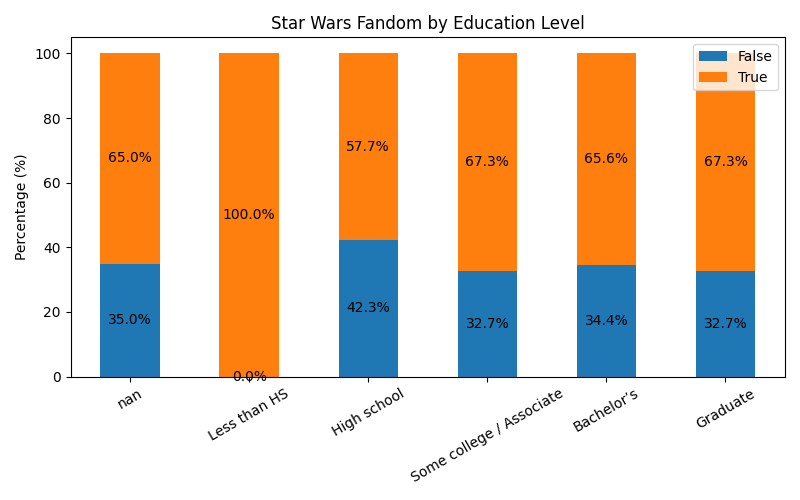
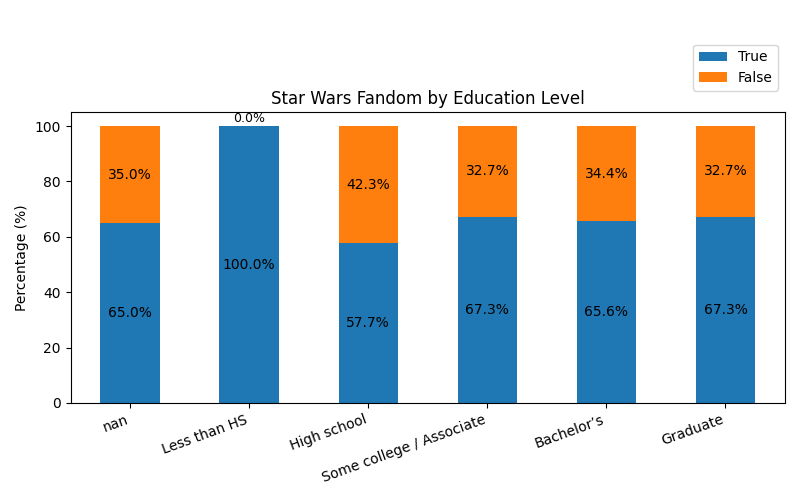
Finished phase 2.2 nominal variables x binary variables

diff --git a/analysis/eda_nominal_binary.py b/analysis/eda_nominal_binary.py
@@ -1,4 +1,5 @@
 from __future__ import annotations
+from pathlib import Path
 from src.paths import FIGURES_DIR
 import pandas as pd
 from src.io_utils import load_clean_star_wars
@@ -21,7 +22,7 @@ def nominal_binary_crosstab(
         dropna=False,
         normalize=False
     )
-    expected_cols = [False, True, pd.NA]
+    expected_cols = [True, False, pd.NA]
     counts = counts.reindex(
         columns=[c for c in expected_cols if c in counts.columns],
         fill_value=0,
@@ -49,13 +50,44 @@ def plot_nominal_binary(
     ax.set_ylabel("Percentage (%)")
     ax.set_xlabel("")
     ax.set_title(title)
-    ax.legend(title="")
-    ax.set_xticklabels(ax.get_xticklabels(), rotation=30, ha="center")
 
+    ax.legend(
+        title="",
+        loc="lower right",
+        bbox_to_anchor=(1, 1.05),
+        ncol=1,  # len(percentages.columns),
+        # frameon=False,
+    )
+    ax.set_xticklabels(ax.get_xticklabels(), rotation=20, ha="right")
+
+    # Loop over containers (stacked segments)
     for container in ax.containers:
-        ax.bar_label(container, fmt="%.1f%%", label_type="center")
+        # Label only non-zero bars
+        labels: list[str] = [
+            f"{bar.get_height():.1f}%" if bar.get_height() > 0 else ""
+            for bar in container
+        ]
+        ax.bar_label(container, labels=labels, label_type="center")
 
-    plt.tight_layout()
+    # Handle zero-height bars separately
+    for i, col in enumerate(percentages.columns):
+        values = percentages[col].values
+
+        for j, value in enumerate(values):
+            if value == 0:
+                # Total height of the stack at this x-position
+                stack_top: float = percentages.iloc[j, :].sum()
+
+                ax.text(
+                    j,
+                    stack_top + 0.5,
+                    "0.0%",
+                    ha="center",
+                    va="bottom",
+                    fontsize=9,
+                )
+
+    plt.tight_layout(rect=(0, 0, 1, 0.95))
 
     if save_path is not None:
         save_path.parent.mkdir(parents=True, exist_ok=True)
@@ -66,96 +98,35 @@ def plot_nominal_binary(
 def main() -> None:
     df = load_clean_star_wars()
 
-    counts, pct = nominal_binary_crosstab(
-        df,
-        nominal_col="gender",
-        binary_col="fan_star_wars",
-    )
+    nominals = [
+        ["gender", "Star Wars Fandom by Gender", FIGURES_DIR / "gender_fan_star_wars.png"],
+        ["education_level", "Star Wars Fandom by Education Level", FIGURES_DIR / "education_fan_star_wars.png"],
+        ["household_income", "Star Wars Fandom by Household Income Level", FIGURES_DIR / "household_income_fan_star_wars.png"],
+        ["census_region", "Star Wars Fandom by Census Region", FIGURES_DIR / "census_region_fan_star_wars.png"],
+        ["age_group", "Star Wars Fandom by Age Group", FIGURES_DIR / "age_group_fan_star_wars.png"]
+    ]
 
-    plot_nominal_binary(
-        pct,
-        title="Star Wars Fandom by Gender",
-        save_path = FIGURES_DIR /
-                    "gender_fan_star_wars.png",
-    )
+    for nom_col, nom_title, save_path in nominals:
 
-    print("\nCounts:")
-    print(counts)
+        counts, pct = nominal_binary_crosstab(
+            df,
+            nominal_col=nom_col,
+            binary_col="fan_star_wars",
+        )
 
-    print("\nRow percentages (%):")
-    print(pct)
+        plot_nominal_binary(
+            pct,
+            title=nom_title,
+            save_path=save_path,
+        )
 
-    counts, pct = nominal_binary_crosstab(
-        df,
-        nominal_col="education_level",
-        binary_col="fan_star_wars",
-    )
+        print("\nCounts:")
+        print(counts)
 
-    plot_nominal_binary(
-        pct,
-        title="Star Wars Fandom by Education Level",
-        save_path=FIGURES_DIR / "education_fan_star_wars.png",
-    )
+        print("\nRow percentages (%):")
+        print(pct)
 
-    print("\nCounts:")
-    print(counts)
 
-    print("\nRow percentages (%):")
-    print(pct)
-
-    counts, pct = nominal_binary_crosstab(
-        df,
-        nominal_col="household_income",
-        binary_col="fan_star_wars",
-    )
-
-    plot_nominal_binary(
-        pct,
-        title="Star Wars Fandom by Household Income Level",
-        save_path=FIGURES_DIR / "household_income_fan_star_wars.png",
-    )
-
-    print("\nCounts:")
-    print(counts)
-
-    print("\nRow percentages (%):")
-    print(pct)
-
-    counts, pct = nominal_binary_crosstab(
-        df,
-        nominal_col="census_region",
-        binary_col="fan_star_wars",
-    )
-
-    plot_nominal_binary(
-        pct,
-        title="Star Wars Fandom by Census Region",
-        save_path=FIGURES_DIR / "census_region_fan_star_wars.png",
-    )
-
-    print("\nCounts:")
-    print(counts)
-
-    print("\nRow percentages (%):")
-    print(pct)
-
-    counts, pct = nominal_binary_crosstab(
-        df,
-        nominal_col="age_group",
-        binary_col="fan_star_wars",
-    )
-
-    plot_nominal_binary(
-        pct,
-        title="Star Wars Fandom by Age Group",
-        save_path=FIGURES_DIR / "age_group_fan_star_wars.png",
-    )
-
-    print("\nCounts:")
-    print(counts)
-
-    print("\nRow percentages (%):")
-    print(pct)
 
 
 if __name__ == "__main__":

diff --git a/analysis/eda_nominal..py b/analysis/eda_nominal..py
@@ -8,6 +8,7 @@ Assumptions:
 """
 
 from __future__ import annotations
+from pathlib import Path
 from src.paths import FIGURES_DIR
 from src.io_utils import load_clean_star_wars
 import matplotlib.pyplot as plt

diff --git a/analysis/eda_binary_binary.py b/analysis/eda_binary_binary.py
@@ -1,4 +1,5 @@
 from __future__ import annotations
+from pathlib import Path
 from src.paths import FIGURES_DIR
 import matplotlib.pyplot as plt
 import pandas as pd

diff --git a/analysis/eda_boolean.py b/analysis/eda_boolean.py
@@ -1,4 +1,5 @@
 from __future__ import annotations
+from pathlib import Path
 from src.paths import FIGURES_DIR
 import matplotlib.pyplot as plt
 import pandas as pd

diff --git a/analysis/episode_rankings.py b/analysis/episode_rankings.py
@@ -1,4 +1,5 @@
 from __future__ import annotations
+from pathlib import Path
 from src.paths import FIGURES_DIR
 import matplotlib.pyplot as plt
 import pandas as pd

diff --git a/reports/phase_2_eda.md b/reports/phase_2_eda.md
@@ -114,3 +114,65 @@ Across all binary × binary analyses:
 This confirms that the dataset is **analysis-ready** for more granular bivariate exploration.
 
 ---
+
+### Phase 2.2 — Nominal × Binary Analysis
+
+This phase explores how **Star Wars fandom (`fan_star_wars`) varies across nominal demographic variables**, using row-normalized contingency tables and stacked bar charts. The goal is descriptive: identifying patterns, gradients, and potential sources of heterogeneity without making causal claims.
+
+Each figure shows the **percentage of respondents within each category who identify as Star Wars fans**, with non-fans comprising the remainder of the bar.
+
+---
+
+#### Gender × Star Wars Fandom
+
+*Figure 2.2.1 — `gender_fan_star_wars.png`*
+![gender_fan_star_wars.png](../analysis/figures/gender_fan_star_wars.png)
+Star Wars fandom differs by gender. Male respondents show a higher proportion of fans compared to female respondents, while respondents with missing gender data fall between these two groups. This pattern is stable and aligns with prior expectations for the franchise’s audience composition.
+
+---
+
+#### Education Level × Star Wars Fandom
+
+*Figure 2.2.2 — `education_fan_star_wars.png`*
+![education_fan_star_wars.png](../analysis/figures/education_fan_star_wars.png)
+Fandom rates are broadly similar across education levels from high school through graduate education. The “Less than HS” category shows a 100% fandom rate; however, this result is driven by a very small sample size and should not be overinterpreted. Overall, education level does not appear to be a strong differentiator of fandom intensity.
+
+---
+
+#### Household Income × Star Wars Fandom
+
+*Figure 2.2.3 — `household_income_fan_star_wars.png`*
+![household_income_fan_star_wars.png](../analysis/figures/household_income_fan_star_wars.png)
+A mild positive gradient is visible between household income and fandom, with higher income brackets showing slightly higher proportions of fans. A substantial fraction of respondents did not report income, and this missingness is consistent with earlier phases of the analysis.
+
+---
+
+#### Census Region × Star Wars Fandom
+
+*Figure 2.2.4 — `census_region_fan_star_wars.png`*
+![census_region_fan_star_wars.png](../analysis/figures/census_region_fan_star_wars.png)
+Regional differences in fandom are present but modest. New England and Mountain regions exhibit slightly higher fandom rates, while the Pacific region shows a comparatively lower share of fans. Overall, regional variation exists but does not dominate fandom patterns.
+
+---
+
+#### Age Group × Star Wars Fandom
+
+*Figure 2.2.5 — `age_group_fan_star_wars.png`*
+![age_group_fan_star_wars.png](../analysis/figures/age_group_fan_star_wars.png)
+Fandom is highest among respondents aged 30–44 and declines in older age groups. Younger respondents (18–29) also show relatively high fandom levels. This pattern suggests a cohort effect consistent with the original release periods of the Star Wars films.
+
+---
+
+#### Summary of Nominal × Binary Findings
+
+Across all demographic variables examined:
+
+* Star Wars fandom is **widespread across groups**, with no category showing uniformly low interest.
+* Differences by gender and age are more pronounced than those by education or region.
+* Missing data (particularly income) is non-trivial and should be considered in later analyses.
+* Observed patterns motivate deeper exploration but do not imply causation.
+
+This concludes Phase 2.2. The next phase will examine relationships between **pairs of nominal variables** to better understand the demographic structure of the respondent population.
+
+---
+
